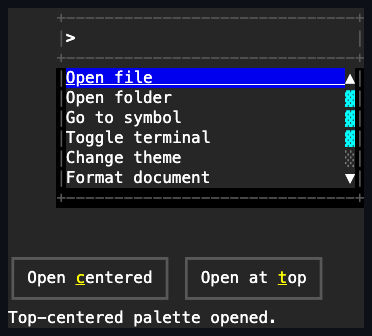
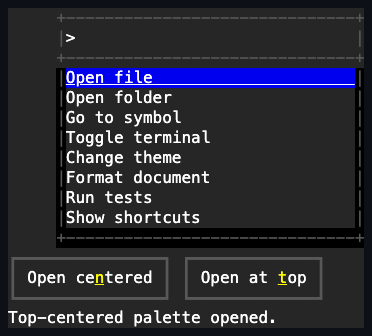
Fix command palette showcase row density

Changed region(s): [[0.1478, 0.1786, 1.0, 0.744], [0.207, 0.8036, 0.2957, 0.8631], [0.1774, 0.0893, 0.207, 0.119]]

diff --git a/examples/Showcase/Panes/CommandPalettePane.cs b/examples/Showcase/Panes/CommandPalettePane.cs
@@ -144,7 +144,7 @@ internal sealed class CommandPalettePane: CompositeControlBase
                 "Place the same component with ordinary Overlay alignment; the palette owns search and results, while layout owns where it appears.",
                 new DocExample(
                     "Centered and top-centered variants",
-                    "Open either presentation, type to narrow the live results, and invoke a row. The centered variant uses a shadow; the top-centered variant uses ASCII field and popup borders.",
+                    "Open either presentation, type to narrow the live results, and invoke a compact one-line command. The centered variant uses a shadow; the top-centered variant uses ASCII field and popup borders.",
                     presentationStage,
                     "palette.HorizontalAlignment = HorizontalAlignment.Center;\npalette.VerticalAlignment = VerticalAlignment.Center;\npalette.Visibility = Visibility.Visible;\npalette.Open();")));
     }
@@ -155,9 +155,7 @@ internal sealed class CommandPalettePane: CompositeControlBase
         {
             Placeholder = "Type a command…",
             Resolver = ResolveCommands,
-            DropDownHeight = Length.Percent(50),
-            RowHeight = Length.Percent(25),
-            ItemTemplate = item => new Text((string) item!) { Height = Length.Star(1) }
+            DropDownHeight = Length.Percent(50)
         };
 
         if (borderless)
